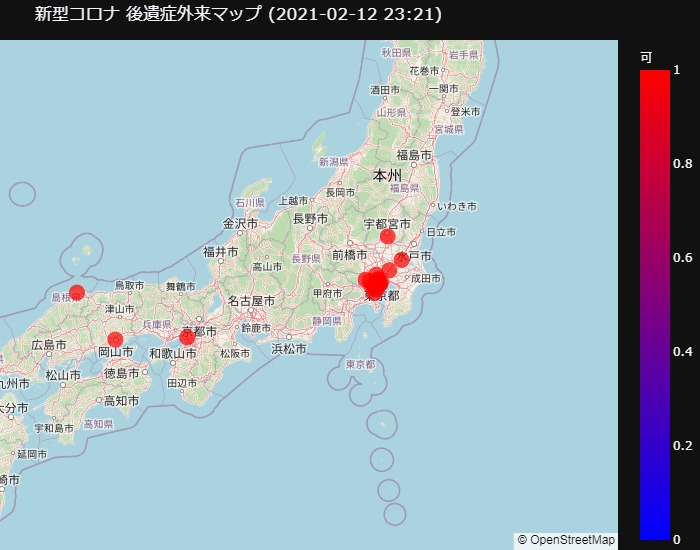
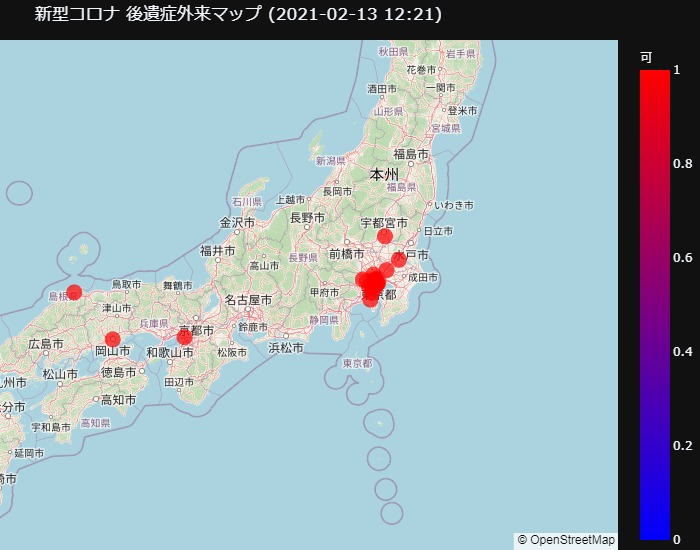
Updated with latest data.

Changed region(s): [[0.0, 0.0618, 0.72, 0.9582], [0.0, 0.3091, 0.06, 0.3709], [0.54, 0.0, 0.57, 0.0309]]

diff --git a/docs/_includes/longcovid-map.html b/docs/_includes/longcovid-map.html
@@ -1,1 +1,1 @@
-<div>                            <div id="c2a21f62-bb00-4ab9-bde6-ab78dbaf9285" class="plotly-graph-div" style="height:550px; width:100%;"></div>            <script type="text/javascript">                                    window.PLOTLYENV=window.PLOTLYENV || {};                                    if (document.getElementById("c2a21f62-bb00-4ab9-bde6-ab78dbaf9285")) {                    Plotly.newPlot(                        "c2a21f62-bb00-4ab9-bde6-ab78dbaf9285",                        [{"customdata": [["-", "-", "2\u9031\u9593\u4ee5\u4e0a\u7d4c\u904e"], ["?", "?", "?"], ["\u53ef", "-", "\u521d\u8a3a\u3067\u3082\u53ef"], ["?", "?", "?"], ["?", "?", "?"], ["-", "\u4e00\u65b9", "16\u6b73\u4ee5\u4e0a\u3001\u57fa\u672c\u306f\u6f22\u65b9"], ["-", "-", "2\u301c3\u30ab\u6708\u7d4c\u904e\u3001\u8af8\u75c7\u72b6\u6709"], ["\u53ef", "\u5fc5\u8981", "\u521d\u8a3a\u3067\u3082\u53ef"], ["?", "?", "\u57fa\u672c\u306f\u6f22\u65b9\u3001\u8981\u554f\u5408\u305b"], ["?", "?", "\u57fa\u672c\u306f\u6f22\u65b9\u3001\u8981\u554f\u5408\u305b"], ["?", "?", "\u57fa\u672c\u306f\u6f22\u65b9\u3001\u8981\u554f\u5408\u305b"], ["\u53ef", "-", "\u57fa\u672c\u306f\u6f22\u65b9\u3001\u81ea\u7531\u8a3a\u7642"], ["\u53ef", "-", "-"], ["-", "-", "\u55c5\u899a\u5473\u899a\u969c\u5bb3\u5916\u6765"], ["-", "\u5fc5\u8981", "2\u30ab\u6708\u4ee5\u4e0a\u7d4c\u904e"], ["-", "-", "\u6765\u9662\u304c\u57fa\u672c"], ["\u53ef", "-", "-"], ["-", "-", "\u9694\u96e2\u671f\u9593\u7d42\u4e86"], ["-", "\u5fc5\u8981", "3\u30ab\u6708\u4ee5\u4e0a\u7d4c\u904e"], ["-", "\u5fc5\u8981", "1\u30ab\u6708\u4ee5\u4e0a\u7d4c\u904e"], ["\u53ef", "-", "\u5bfe\u9762\u8a3a\u7642\u306e\u53ef\u80fd\u6027\u6709"], ["-", "-", "-"], ["-", "-", "1\u30ab\u6708\u4ee5\u4e0a\u7d4c\u904e"]], "hovertemplate": "<b>%{hovertext}</b><br><br>\u53ef=%{marker.color}<br>\u7def\u5ea6=%{lat}<br>\u7d4c\u5ea6=%{lon}<br>\u30aa\u30f3\u30e9\u30a4\u30f3=%{customdata[0]}<br>\u7d39\u4ecb\u72b6=%{customdata[1]}<br>\u6761\u4ef6=%{customdata[2]}<extra></extra>", "hovertext": ["\u30a4\u30f3\u30bf\u30fc\u30d1\u30fc\u30af\u5009\u6301\u547c\u5438\u5668\u5185\u79d1", "\u3064\u3061\u3046\u3089\u6771\u53e3\u30af\u30ea\u30cb\u30c3\u30af", "\u30d2\u30e9\u30cf\u30bf\u30af\u30ea\u30cb\u30c3\u30af", "\u9663\u5185\u8033\u9f3b\u54bd\u5589\u79d1\u30af\u30ea\u30cb\u30c3\u30af", "\u65b0\u4e2d\u91ce\u8033\u9f3b\u54bd\u5589\u79d1\u30af\u30ea\u30cb\u30c3\u30af", "\u5bfa\u7530\u30af\u30ea\u30cb\u30c3\u30af", "\u3082\u3061\u3065\u304d\u8033\u9f3b\u54bd\u5589\u79d1", "\u5317\u91cc\u5927\u5b66\u6771\u6d0b\u533b\u5b66\u7dcf\u5408\u7814\u7a76\u6240", "\u5c0f\u91d1\u4e95\u3064\u308b\u304b\u3081\u30af\u30ea\u30cb\u30c3\u30af", "\u307f\u306e\u3084\u307e\u30af\u30ea\u30cb\u30c3\u30af", "\u307f\u306e\u3084\u307e\u30af\u30ea\u30cb\u30c3\u30af\u7acb\u5ddd", "\u6771\u6587\u4e2d\u91ab\u30af\u30ea\u30cb\u30c3\u30af\u30fb\u65b0\u6a4b", "\u516c\u5e73\u75c5\u9662", "\u30af\u30ea\u30cb\u30c3\u30af\u67cf\u306e\u8449", "\u8056\u30de\u30ea\u30a2\u30f3\u30ca\u533b\u79d1\u5927\u5b66\u75c5\u9662", "\u6a2a\u6d5c\u304b\u3093\u3060\u3044\u3058\u30d5\u30a1\u30df\u30ea\u30fc\u30af\u30ea\u30cb\u30c3\u30af", "\u68b6\u304c\u8c37\u99c5\u524d\u30af\u30ea\u30cb\u30c3\u30af", "\u65b0\u5ddd\u5d0e\u3080\u3089\u305b\u5185\u79d1\u5faa\u74b0\u5668\u5185\u79d1", "\u30ca\u30ab\u30c8\u30df\u30d5\u30a1\u30c6\u30a3\u30fc\u30b0\u30b1\u30a2\u30af\u30ea\u30cb\u30c3\u30af", "\u5ca1\u5c71\u5927\u5b66\u75c5\u9662", "\u798f\u7530\u5185\u79d1\u30af\u30ea\u30cb\u30c3\u30af", "\u5929\u795e\u3051\u3084\u304d\u30af\u30ea\u30cb\u30c3\u30af", "\u307f\u3089\u3044\u30af\u30ea\u30cb\u30c3\u30af"], "lat": [36.49421483, 36.07817712, 35.66099144, 35.67554272, 35.69746127, 35.72952117, 35.73184532, 35.64615518, 35.70092207, 35.65562198, 35.72698343, 35.66930295, 35.81312769, 35.89270812, 35.60075469, 35.48523182, 35.5937929, 35.55188904, 34.690363399999995, 34.65090647, 35.49501807, 33.58607487, 33.59038441], "legendgroup": "", "lon": [139.9027937, 140.207013, 139.70208080000003, 139.6681197, 139.6692997, 139.6931743, 139.7026409, 139.72627219999998, 139.5058372, 139.73607180000002, 139.4179435, 139.7537904, 139.6527044, 139.9377533, 139.5488861, 139.61037869999998, 139.6063036, 139.6629341, 135.49824080000002, 133.9206308, 133.0761817, 130.3950466, 130.423525], "marker": {"color": [1, 1, 1, 1, 1, 1, 1, 1, 1, 1, 1, 1, 1, 1, 1, 1, 1, 1, 1, 1, 1, 0, 1], "coloraxis": "coloraxis", "size": [1, 1, 1, 1, 1, 1, 1, 1, 1, 1, 1, 1, 1, 1, 1, 1, 1, 1, 1, 1, 1, 0, 1], "sizemode": "area", "sizeref": 0.006944444444444444}, "mode": "markers", "name": "", "showlegend": false, "subplot": "mapbox", "type": "scattermapbox"}],                        {"coloraxis": {"colorbar": {"title": {"text": "\u53ef"}}, "colorscale": [[0.0, "rgb(0,0,255)"], [1.0, "rgb(255,0,0)"]]}, "height": 550, "legend": {"itemsizing": "constant", "tracegroupgap": 0}, "mapbox": {"center": {"lat": 35.45291265043478, "lon": 138.1746792304348}, "domain": {"x": [0.0, 1.0], "y": [0.0, 1.0]}, "style": "open-street-map", "zoom": 5}, "margin": {"b": 0, "l": 0, "r": 0, "t": 40}, "template": {"data": {"bar": [{"error_x": {"color": "#f2f5fa"}, "error_y": {"color": "#f2f5fa"}, "marker": {"line": {"color": "rgb(17,17,17)", "width": 0.5}}, "type": "bar"}], "barpolar": [{"marker": {"line": {"color": "rgb(17,17,17)", "width": 0.5}}, "type": "barpolar"}], "carpet": [{"aaxis": {"endlinecolor": "#A2B1C6", "gridcolor": "#506784", "linecolor": "#506784", "minorgridcolor": "#506784", "startlinecolor": "#A2B1C6"}, "baxis": {"endlinecolor": "#A2B1C6", "gridcolor": "#506784", "linecolor": "#506784", "minorgridcolor": "#506784", "startlinecolor": "#A2B1C6"}, "type": "carpet"}], "choropleth": [{"colorbar": {"outlinewidth": 0, "ticks": ""}, "type": "choropleth"}], "contour": [{"colorbar": {"outlinewidth": 0, "ticks": ""}, "colorscale": [[0.0, "#0d0887"], [0.1111111111111111, "#46039f"], [0.2222222222222222, "#7201a8"], [0.3333333333333333, "#9c179e"], [0.4444444444444444, "#bd3786"], [0.5555555555555556, "#d8576b"], [0.6666666666666666, "#ed7953"], [0.7777777777777778, "#fb9f3a"], [0.8888888888888888, "#fdca26"], [1.0, "#f0f921"]], "type": "contour"}], "contourcarpet": [{"colorbar": {"outlinewidth": 0, "ticks": ""}, "type": "contourcarpet"}], "heatmap": [{"colorbar": {"outlinewidth": 0, "ticks": ""}, "colorscale": [[0.0, "#0d0887"], [0.1111111111111111, "#46039f"], [0.2222222222222222, "#7201a8"], [0.3333333333333333, "#9c179e"], [0.4444444444444444, "#bd3786"], [0.5555555555555556, "#d8576b"], [0.6666666666666666, "#ed7953"], [0.7777777777777778, "#fb9f3a"], [0.8888888888888888, "#fdca26"], [1.0, "#f0f921"]], "type": "heatmap"}], "heatmapgl": [{"colorbar": {"outlinewidth": 0, "ticks": ""}, "colorscale": [[0.0, "#0d0887"], [0.1111111111111111, "#46039f"], [0.2222222222222222, "#7201a8"], [0.3333333333333333, "#9c179e"], [0.4444444444444444, "#bd3786"], [0.5555555555555556, "#d8576b"], [0.6666666666666666, "#ed7953"], [0.7777777777777778, "#fb9f3a"], [0.8888888888888888, "#fdca26"], [1.0, "#f0f921"]], "type": "heatmapgl"}], "histogram": [{"marker": {"colorbar": {"outlinewidth": 0, "ticks": ""}}, "type": "histogram"}], "histogram2d": [{"colorbar": {"outlinewidth": 0, "ticks": ""}, "colorscale": [[0.0, "#0d0887"], [0.1111111111111111, "#46039f"], [0.2222222222222222, "#7201a8"], [0.3333333333333333, "#9c179e"], [0.4444444444444444, "#bd3786"], [0.5555555555555556, "#d8576b"], [0.6666666666666666, "#ed7953"], [0.7777777777777778, "#fb9f3a"], [0.8888888888888888, "#fdca26"], [1.0, "#f0f921"]], "type": "histogram2d"}], "histogram2dcontour": [{"colorbar": {"outlinewidth": 0, "ticks": ""}, "colorscale": [[0.0, "#0d0887"], [0.1111111111111111, "#46039f"], [0.2222222222222222, "#7201a8"], [0.3333333333333333, "#9c179e"], [0.4444444444444444, "#bd3786"], [0.5555555555555556, "#d8576b"], [0.6666666666666666, "#ed7953"], [0.7777777777777778, "#fb9f3a"], [0.8888888888888888, "#fdca26"], [1.0, "#f0f921"]], "type": "histogram2dcontour"}], "mesh3d": [{"colorbar": {"outlinewidth": 0, "ticks": ""}, "type": "mesh3d"}], "parcoords": [{"line": {"colorbar": {"outlinewidth": 0, "ticks": ""}}, "type": "parcoords"}], "pie": [{"automargin": true, "type": "pie"}], "scatter": [{"marker": {"line": {"color": "#283442"}}, "type": "scatter"}], "scatter3d": [{"line": {"colorbar": {"outlinewidth": 0, "ticks": ""}}, "marker": {"colorbar": {"outlinewidth": 0, "ticks": ""}}, "type": "scatter3d"}], "scattercarpet": [{"marker": {"colorbar": {"outlinewidth": 0, "ticks": ""}}, "type": "scattercarpet"}], "scattergeo": [{"marker": {"colorbar": {"outlinewidth": 0, "ticks": ""}}, "type": "scattergeo"}], "scattergl": [{"marker": {"line": {"color": "#283442"}}, "type": "scattergl"}], "scattermapbox": [{"marker": {"colorbar": {"outlinewidth": 0, "ticks": ""}}, "type": "scattermapbox"}], "scatterpolar": [{"marker": {"colorbar": {"outlinewidth": 0, "ticks": ""}}, "type": "scatterpolar"}], "scatterpolargl": [{"marker": {"colorbar": {"outlinewidth": 0, "ticks": ""}}, "type": "scatterpolargl"}], "scatterternary": [{"marker": {"colorbar": {"outlinewidth": 0, "ticks": ""}}, "type": "scatterternary"}], "surface": [{"colorbar": {"outlinewidth": 0, "ticks": ""}, "colorscale": [[0.0, "#0d0887"], [0.1111111111111111, "#46039f"], [0.2222222222222222, "#7201a8"], [0.3333333333333333, "#9c179e"], [0.4444444444444444, "#bd3786"], [0.5555555555555556, "#d8576b"], [0.6666666666666666, "#ed7953"], [0.7777777777777778, "#fb9f3a"], [0.8888888888888888, "#fdca26"], [1.0, "#f0f921"]], "type": "surface"}], "table": [{"cells": {"fill": {"color": "#506784"}, "line": {"color": "rgb(17,17,17)"}}, "header": {"fill": {"color": "#2a3f5f"}, "line": {"color": "rgb(17,17,17)"}}, "type": "table"}]}, "layout": {"annotationdefaults": {"arrowcolor": "#f2f5fa", "arrowhead": 0, "arrowwidth": 1}, "autotypenumbers": "strict", "coloraxis": {"colorbar": {"outlinewidth": 0, "ticks": ""}}, "colorscale": {"diverging": [[0, "#8e0152"], [0.1, "#c51b7d"], [0.2, "#de77ae"], [0.3, "#f1b6da"], [0.4, "#fde0ef"], [0.5, "#f7f7f7"], [0.6, "#e6f5d0"], [0.7, "#b8e186"], [0.8, "#7fbc41"], [0.9, "#4d9221"], [1, "#276419"]], "sequential": [[0.0, "#0d0887"], [0.1111111111111111, "#46039f"], [0.2222222222222222, "#7201a8"], [0.3333333333333333, "#9c179e"], [0.4444444444444444, "#bd3786"], [0.5555555555555556, "#d8576b"], [0.6666666666666666, "#ed7953"], [0.7777777777777778, "#fb9f3a"], [0.8888888888888888, "#fdca26"], [1.0, "#f0f921"]], "sequentialminus": [[0.0, "#0d0887"], [0.1111111111111111, "#46039f"], [0.2222222222222222, "#7201a8"], [0.3333333333333333, "#9c179e"], [0.4444444444444444, "#bd3786"], [0.5555555555555556, "#d8576b"], [0.6666666666666666, "#ed7953"], [0.7777777777777778, "#fb9f3a"], [0.8888888888888888, "#fdca26"], [1.0, "#f0f921"]]}, "colorway": ["#636efa", "#EF553B", "#00cc96", "#ab63fa", "#FFA15A", "#19d3f3", "#FF6692", "#B6E880", "#FF97FF", "#FECB52"], "font": {"color": "#f2f5fa"}, "geo": {"bgcolor": "rgb(17,17,17)", "lakecolor": "rgb(17,17,17)", "landcolor": "rgb(17,17,17)", "showlakes": true, "showland": true, "subunitcolor": "#506784"}, "hoverlabel": {"align": "left"}, "hovermode": "closest", "mapbox": {"style": "dark"}, "paper_bgcolor": "rgb(17,17,17)", "plot_bgcolor": "rgb(17,17,17)", "polar": {"angularaxis": {"gridcolor": "#506784", "linecolor": "#506784", "ticks": ""}, "bgcolor": "rgb(17,17,17)", "radialaxis": {"gridcolor": "#506784", "linecolor": "#506784", "ticks": ""}}, "scene": {"xaxis": {"backgroundcolor": "rgb(17,17,17)", "gridcolor": "#506784", "gridwidth": 2, "linecolor": "#506784", "showbackground": true, "ticks": "", "zerolinecolor": "#C8D4E3"}, "yaxis": {"backgroundcolor": "rgb(17,17,17)", "gridcolor": "#506784", "gridwidth": 2, "linecolor": "#506784", "showbackground": true, "ticks": "", "zerolinecolor": "#C8D4E3"}, "zaxis": {"backgroundcolor": "rgb(17,17,17)", "gridcolor": "#506784", "gridwidth": 2, "linecolor": "#506784", "showbackground": true, "ticks": "", "zerolinecolor": "#C8D4E3"}}, "shapedefaults": {"line": {"color": "#f2f5fa"}}, "sliderdefaults": {"bgcolor": "#C8D4E3", "bordercolor": "rgb(17,17,17)", "borderwidth": 1, "tickwidth": 0}, "ternary": {"aaxis": {"gridcolor": "#506784", "linecolor": "#506784", "ticks": ""}, "baxis": {"gridcolor": "#506784", "linecolor": "#506784", "ticks": ""}, "bgcolor": "rgb(17,17,17)", "caxis": {"gridcolor": "#506784", "linecolor": "#506784", "ticks": ""}}, "title": {"x": 0.05}, "updatemenudefaults": {"bgcolor": "#506784", "borderwidth": 0}, "xaxis": {"automargin": true, "gridcolor": "#283442", "linecolor": "#506784", "ticks": "", "title": {"standoff": 15}, "zerolinecolor": "#283442", "zerolinewidth": 2}, "yaxis": {"automargin": true, "gridcolor": "#283442", "linecolor": "#506784", "ticks": "", "title": {"standoff": 15}, "zerolinecolor": "#283442", "zerolinewidth": 2}}}, "title": {"text": "\u65b0\u578b\u30b3\u30ed\u30ca \u5f8c\u907a\u75c7\u5916\u6765\u30de\u30c3\u30d7 (2021-02-12 23:21)"}},                        {"responsive": true}                    )                };                            </script>        </div>
+<div>                            <div id="97e3af49-0fea-48ea-89a7-a880f2ed0320" class="plotly-graph-div" style="height:550px; width:100%;"></div>            <script type="text/javascript">                                    window.PLOTLYENV=window.PLOTLYENV || {};                                    if (document.getElementById("97e3af49-0fea-48ea-89a7-a880f2ed0320")) {                    Plotly.newPlot(                        "97e3af49-0fea-48ea-89a7-a880f2ed0320",                        [{"customdata": [["-", "-", "2\u9031\u9593\u4ee5\u4e0a\u7d4c\u904e"], ["?", "?", "?"], ["\u53ef", "-", "\u521d\u8a3a\u3067\u3082\u53ef"], ["?", "?", "?"], ["?", "?", "?"], ["-", "\u4e00\u65b9", "16\u6b73\u4ee5\u4e0a\u3001\u57fa\u672c\u306f\u6f22\u65b9"], ["-", "-", "2\u301c3\u30ab\u6708\u7d4c\u904e\u3001\u8af8\u75c7\u72b6\u6709"], ["\u53ef", "\u5fc5\u8981", "\u521d\u8a3a\u3067\u3082\u53ef"], ["?", "?", "\u57fa\u672c\u306f\u6f22\u65b9\u3001\u8981\u554f\u5408\u305b"], ["?", "?", "\u57fa\u672c\u306f\u6f22\u65b9\u3001\u8981\u554f\u5408\u305b"], ["?", "?", "\u57fa\u672c\u306f\u6f22\u65b9\u3001\u8981\u554f\u5408\u305b"], ["\u53ef", "-", "\u57fa\u672c\u306f\u6f22\u65b9\u3001\u81ea\u7531\u8a3a\u7642"], ["\u53ef", "-", "-"], ["-", "-", "\u55c5\u899a\u5473\u899a\u969c\u5bb3\u5916\u6765"], ["-", "\u5fc5\u8981", "2\u30ab\u6708\u4ee5\u4e0a\u7d4c\u904e"], ["-", "-", "\u6765\u9662\u304c\u57fa\u672c"], ["\u53ef", "-", "-"], ["-", "-", "\u9694\u96e2\u671f\u9593\u7d42\u4e86"], ["?", "?", "\u7642\u990a\u7d42\u4e86\u5f8c"], ["-", "\u5fc5\u8981", "3\u30ab\u6708\u4ee5\u4e0a\u7d4c\u904e"], ["-", "\u5fc5\u8981", "1\u30ab\u6708\u4ee5\u4e0a\u7d4c\u904e"], ["\u53ef", "-", "\u5bfe\u9762\u8a3a\u7642\u306e\u53ef\u80fd\u6027\u6709"], ["-", "-", "-"], ["-", "-", "1\u30ab\u6708\u4ee5\u4e0a\u7d4c\u904e"]], "hovertemplate": "<b>%{hovertext}</b><br><br>\u53ef=%{marker.color}<br>\u7def\u5ea6=%{lat}<br>\u7d4c\u5ea6=%{lon}<br>\u30aa\u30f3\u30e9\u30a4\u30f3=%{customdata[0]}<br>\u7d39\u4ecb\u72b6=%{customdata[1]}<br>\u6761\u4ef6=%{customdata[2]}<extra></extra>", "hovertext": ["\u30a4\u30f3\u30bf\u30fc\u30d1\u30fc\u30af\u5009\u6301\u547c\u5438\u5668\u5185\u79d1", "\u3064\u3061\u3046\u3089\u6771\u53e3\u30af\u30ea\u30cb\u30c3\u30af", "\u30d2\u30e9\u30cf\u30bf\u30af\u30ea\u30cb\u30c3\u30af", "\u9663\u5185\u8033\u9f3b\u54bd\u5589\u79d1\u30af\u30ea\u30cb\u30c3\u30af", "\u65b0\u4e2d\u91ce\u8033\u9f3b\u54bd\u5589\u79d1\u30af\u30ea\u30cb\u30c3\u30af", "\u5bfa\u7530\u30af\u30ea\u30cb\u30c3\u30af", "\u3082\u3061\u3065\u304d\u8033\u9f3b\u54bd\u5589\u79d1", "\u5317\u91cc\u5927\u5b66\u6771\u6d0b\u533b\u5b66\u7dcf\u5408\u7814\u7a76\u6240", "\u5c0f\u91d1\u4e95\u3064\u308b\u304b\u3081\u30af\u30ea\u30cb\u30c3\u30af", "\u307f\u306e\u3084\u307e\u30af\u30ea\u30cb\u30c3\u30af", "\u307f\u306e\u3084\u307e\u30af\u30ea\u30cb\u30c3\u30af\u7acb\u5ddd", "\u6771\u6587\u4e2d\u91ab\u30af\u30ea\u30cb\u30c3\u30af\u30fb\u65b0\u6a4b", "\u516c\u5e73\u75c5\u9662", "\u30af\u30ea\u30cb\u30c3\u30af\u67cf\u306e\u8449", "\u8056\u30de\u30ea\u30a2\u30f3\u30ca\u533b\u79d1\u5927\u5b66\u75c5\u9662", "\u6a2a\u6d5c\u304b\u3093\u3060\u3044\u3058\u30d5\u30a1\u30df\u30ea\u30fc\u30af\u30ea\u30cb\u30c3\u30af", "\u68b6\u304c\u8c37\u99c5\u524d\u30af\u30ea\u30cb\u30c3\u30af", "\u65b0\u5ddd\u5d0e\u3080\u3089\u305b\u5185\u79d1\u5faa\u74b0\u5668\u5185\u79d1", "\u6a2a\u6d5c\u307f\u306a\u3068\u547c\u5438\u5668\u5185\u79d1", "\u30ca\u30ab\u30c8\u30df\u30d5\u30a1\u30c6\u30a3\u30fc\u30b0\u30b1\u30a2\u30af\u30ea\u30cb\u30c3\u30af", "\u5ca1\u5c71\u5927\u5b66\u75c5\u9662", "\u798f\u7530\u5185\u79d1\u30af\u30ea\u30cb\u30c3\u30af", "\u5929\u795e\u3051\u3084\u304d\u30af\u30ea\u30cb\u30c3\u30af", "\u307f\u3089\u3044\u30af\u30ea\u30cb\u30c3\u30af"], "lat": [36.49421483, 36.07817712, 35.66099144, 35.67554272, 35.69746127, 35.72952117, 35.73184532, 35.64615518, 35.70092207, 35.65562198, 35.72698343, 35.66930295, 35.81312769, 35.89270812, 35.60075469, 35.48523182, 35.5937929, 35.55188904, 35.36818996, 34.690363399999995, 34.65090647, 35.49501807, 33.58607487, 33.59038441], "legendgroup": "", "lon": [139.9027937, 140.207013, 139.70208080000003, 139.6681197, 139.6692997, 139.6931743, 139.7026409, 139.72627219999998, 139.5058372, 139.73607180000002, 139.4179435, 139.7537904, 139.6527044, 139.9377533, 139.5488861, 139.61037869999998, 139.6063036, 139.6629341, 139.58114630000003, 135.49824080000002, 133.9206308, 133.0761817, 130.3950466, 130.423525], "marker": {"color": [1, 1, 1, 1, 1, 1, 1, 1, 1, 1, 1, 1, 1, 1, 1, 1, 1, 1, 1, 1, 1, 1, 0, 1], "coloraxis": "coloraxis", "size": [1, 1, 1, 1, 1, 1, 1, 1, 1, 1, 1, 1, 1, 1, 1, 1, 1, 1, 1, 1, 1, 1, 0, 1], "sizemode": "area", "sizeref": 0.006944444444444444}, "mode": "markers", "name": "", "showlegend": false, "subplot": "mapbox", "type": "scattermapbox"}],                        {"coloraxis": {"colorbar": {"title": {"text": "\u53ef"}}, "colorscale": [[0.0, "rgb(0,0,255)"], [1.0, "rgb(255,0,0)"]]}, "height": 550, "legend": {"itemsizing": "constant", "tracegroupgap": 0}, "mapbox": {"center": {"lat": 35.44938253833333, "lon": 138.233282025}, "domain": {"x": [0.0, 1.0], "y": [0.0, 1.0]}, "style": "open-street-map", "zoom": 5}, "margin": {"b": 0, "l": 0, "r": 0, "t": 40}, "template": {"data": {"bar": [{"error_x": {"color": "#f2f5fa"}, "error_y": {"color": "#f2f5fa"}, "marker": {"line": {"color": "rgb(17,17,17)", "width": 0.5}}, "type": "bar"}], "barpolar": [{"marker": {"line": {"color": "rgb(17,17,17)", "width": 0.5}}, "type": "barpolar"}], "carpet": [{"aaxis": {"endlinecolor": "#A2B1C6", "gridcolor": "#506784", "linecolor": "#506784", "minorgridcolor": "#506784", "startlinecolor": "#A2B1C6"}, "baxis": {"endlinecolor": "#A2B1C6", "gridcolor": "#506784", "linecolor": "#506784", "minorgridcolor": "#506784", "startlinecolor": "#A2B1C6"}, "type": "carpet"}], "choropleth": [{"colorbar": {"outlinewidth": 0, "ticks": ""}, "type": "choropleth"}], "contour": [{"colorbar": {"outlinewidth": 0, "ticks": ""}, "colorscale": [[0.0, "#0d0887"], [0.1111111111111111, "#46039f"], [0.2222222222222222, "#7201a8"], [0.3333333333333333, "#9c179e"], [0.4444444444444444, "#bd3786"], [0.5555555555555556, "#d8576b"], [0.6666666666666666, "#ed7953"], [0.7777777777777778, "#fb9f3a"], [0.8888888888888888, "#fdca26"], [1.0, "#f0f921"]], "type": "contour"}], "contourcarpet": [{"colorbar": {"outlinewidth": 0, "ticks": ""}, "type": "contourcarpet"}], "heatmap": [{"colorbar": {"outlinewidth": 0, "ticks": ""}, "colorscale": [[0.0, "#0d0887"], [0.1111111111111111, "#46039f"], [0.2222222222222222, "#7201a8"], [0.3333333333333333, "#9c179e"], [0.4444444444444444, "#bd3786"], [0.5555555555555556, "#d8576b"], [0.6666666666666666, "#ed7953"], [0.7777777777777778, "#fb9f3a"], [0.8888888888888888, "#fdca26"], [1.0, "#f0f921"]], "type": "heatmap"}], "heatmapgl": [{"colorbar": {"outlinewidth": 0, "ticks": ""}, "colorscale": [[0.0, "#0d0887"], [0.1111111111111111, "#46039f"], [0.2222222222222222, "#7201a8"], [0.3333333333333333, "#9c179e"], [0.4444444444444444, "#bd3786"], [0.5555555555555556, "#d8576b"], [0.6666666666666666, "#ed7953"], [0.7777777777777778, "#fb9f3a"], [0.8888888888888888, "#fdca26"], [1.0, "#f0f921"]], "type": "heatmapgl"}], "histogram": [{"marker": {"colorbar": {"outlinewidth": 0, "ticks": ""}}, "type": "histogram"}], "histogram2d": [{"colorbar": {"outlinewidth": 0, "ticks": ""}, "colorscale": [[0.0, "#0d0887"], [0.1111111111111111, "#46039f"], [0.2222222222222222, "#7201a8"], [0.3333333333333333, "#9c179e"], [0.4444444444444444, "#bd3786"], [0.5555555555555556, "#d8576b"], [0.6666666666666666, "#ed7953"], [0.7777777777777778, "#fb9f3a"], [0.8888888888888888, "#fdca26"], [1.0, "#f0f921"]], "type": "histogram2d"}], "histogram2dcontour": [{"colorbar": {"outlinewidth": 0, "ticks": ""}, "colorscale": [[0.0, "#0d0887"], [0.1111111111111111, "#46039f"], [0.2222222222222222, "#7201a8"], [0.3333333333333333, "#9c179e"], [0.4444444444444444, "#bd3786"], [0.5555555555555556, "#d8576b"], [0.6666666666666666, "#ed7953"], [0.7777777777777778, "#fb9f3a"], [0.8888888888888888, "#fdca26"], [1.0, "#f0f921"]], "type": "histogram2dcontour"}], "mesh3d": [{"colorbar": {"outlinewidth": 0, "ticks": ""}, "type": "mesh3d"}], "parcoords": [{"line": {"colorbar": {"outlinewidth": 0, "ticks": ""}}, "type": "parcoords"}], "pie": [{"automargin": true, "type": "pie"}], "scatter": [{"marker": {"line": {"color": "#283442"}}, "type": "scatter"}], "scatter3d": [{"line": {"colorbar": {"outlinewidth": 0, "ticks": ""}}, "marker": {"colorbar": {"outlinewidth": 0, "ticks": ""}}, "type": "scatter3d"}], "scattercarpet": [{"marker": {"colorbar": {"outlinewidth": 0, "ticks": ""}}, "type": "scattercarpet"}], "scattergeo": [{"marker": {"colorbar": {"outlinewidth": 0, "ticks": ""}}, "type": "scattergeo"}], "scattergl": [{"marker": {"line": {"color": "#283442"}}, "type": "scattergl"}], "scattermapbox": [{"marker": {"colorbar": {"outlinewidth": 0, "ticks": ""}}, "type": "scattermapbox"}], "scatterpolar": [{"marker": {"colorbar": {"outlinewidth": 0, "ticks": ""}}, "type": "scatterpolar"}], "scatterpolargl": [{"marker": {"colorbar": {"outlinewidth": 0, "ticks": ""}}, "type": "scatterpolargl"}], "scatterternary": [{"marker": {"colorbar": {"outlinewidth": 0, "ticks": ""}}, "type": "scatterternary"}], "surface": [{"colorbar": {"outlinewidth": 0, "ticks": ""}, "colorscale": [[0.0, "#0d0887"], [0.1111111111111111, "#46039f"], [0.2222222222222222, "#7201a8"], [0.3333333333333333, "#9c179e"], [0.4444444444444444, "#bd3786"], [0.5555555555555556, "#d8576b"], [0.6666666666666666, "#ed7953"], [0.7777777777777778, "#fb9f3a"], [0.8888888888888888, "#fdca26"], [1.0, "#f0f921"]], "type": "surface"}], "table": [{"cells": {"fill": {"color": "#506784"}, "line": {"color": "rgb(17,17,17)"}}, "header": {"fill": {"color": "#2a3f5f"}, "line": {"color": "rgb(17,17,17)"}}, "type": "table"}]}, "layout": {"annotationdefaults": {"arrowcolor": "#f2f5fa", "arrowhead": 0, "arrowwidth": 1}, "autotypenumbers": "strict", "coloraxis": {"colorbar": {"outlinewidth": 0, "ticks": ""}}, "colorscale": {"diverging": [[0, "#8e0152"], [0.1, "#c51b7d"], [0.2, "#de77ae"], [0.3, "#f1b6da"], [0.4, "#fde0ef"], [0.5, "#f7f7f7"], [0.6, "#e6f5d0"], [0.7, "#b8e186"], [0.8, "#7fbc41"], [0.9, "#4d9221"], [1, "#276419"]], "sequential": [[0.0, "#0d0887"], [0.1111111111111111, "#46039f"], [0.2222222222222222, "#7201a8"], [0.3333333333333333, "#9c179e"], [0.4444444444444444, "#bd3786"], [0.5555555555555556, "#d8576b"], [0.6666666666666666, "#ed7953"], [0.7777777777777778, "#fb9f3a"], [0.8888888888888888, "#fdca26"], [1.0, "#f0f921"]], "sequentialminus": [[0.0, "#0d0887"], [0.1111111111111111, "#46039f"], [0.2222222222222222, "#7201a8"], [0.3333333333333333, "#9c179e"], [0.4444444444444444, "#bd3786"], [0.5555555555555556, "#d8576b"], [0.6666666666666666, "#ed7953"], [0.7777777777777778, "#fb9f3a"], [0.8888888888888888, "#fdca26"], [1.0, "#f0f921"]]}, "colorway": ["#636efa", "#EF553B", "#00cc96", "#ab63fa", "#FFA15A", "#19d3f3", "#FF6692", "#B6E880", "#FF97FF", "#FECB52"], "font": {"color": "#f2f5fa"}, "geo": {"bgcolor": "rgb(17,17,17)", "lakecolor": "rgb(17,17,17)", "landcolor": "rgb(17,17,17)", "showlakes": true, "showland": true, "subunitcolor": "#506784"}, "hoverlabel": {"align": "left"}, "hovermode": "closest", "mapbox": {"style": "dark"}, "paper_bgcolor": "rgb(17,17,17)", "plot_bgcolor": "rgb(17,17,17)", "polar": {"angularaxis": {"gridcolor": "#506784", "linecolor": "#506784", "ticks": ""}, "bgcolor": "rgb(17,17,17)", "radialaxis": {"gridcolor": "#506784", "linecolor": "#506784", "ticks": ""}}, "scene": {"xaxis": {"backgroundcolor": "rgb(17,17,17)", "gridcolor": "#506784", "gridwidth": 2, "linecolor": "#506784", "showbackground": true, "ticks": "", "zerolinecolor": "#C8D4E3"}, "yaxis": {"backgroundcolor": "rgb(17,17,17)", "gridcolor": "#506784", "gridwidth": 2, "linecolor": "#506784", "showbackground": true, "ticks": "", "zerolinecolor": "#C8D4E3"}, "zaxis": {"backgroundcolor": "rgb(17,17,17)", "gridcolor": "#506784", "gridwidth": 2, "linecolor": "#506784", "showbackground": true, "ticks": "", "zerolinecolor": "#C8D4E3"}}, "shapedefaults": {"line": {"color": "#f2f5fa"}}, "sliderdefaults": {"bgcolor": "#C8D4E3", "bordercolor": "rgb(17,17,17)", "borderwidth": 1, "tickwidth": 0}, "ternary": {"aaxis": {"gridcolor": "#506784", "linecolor": "#506784", "ticks": ""}, "baxis": {"gridcolor": "#506784", "linecolor": "#506784", "ticks": ""}, "bgcolor": "rgb(17,17,17)", "caxis": {"gridcolor": "#506784", "linecolor": "#506784", "ticks": ""}}, "title": {"x": 0.05}, "updatemenudefaults": {"bgcolor": "#506784", "borderwidth": 0}, "xaxis": {"automargin": true, "gridcolor": "#283442", "linecolor": "#506784", "ticks": "", "title": {"standoff": 15}, "zerolinecolor": "#283442", "zerolinewidth": 2}, "yaxis": {"automargin": true, "gridcolor": "#283442", "linecolor": "#506784", "ticks": "", "title": {"standoff": 15}, "zerolinecolor": "#283442", "zerolinewidth": 2}}}, "title": {"text": "\u65b0\u578b\u30b3\u30ed\u30ca \u5f8c\u907a\u75c7\u5916\u6765\u30de\u30c3\u30d7 (2021-02-13 12:21)"}},                        {"responsive": true}                    )                };                            </script>        </div>

diff --git a/docs/_includes/longcovid-table.html b/docs/_includes/longcovid-table.html
@@ -40,9 +40,10 @@
 <tr bgcolor="#000000"><td class="MapsTblColNo">関東</td><td class="MapsTblColSt">神奈川県</td><td class="MapsTblColNm">横浜かんだいじファミリークリニック</td><td class="MapsTblColEn">1</td><td class="MapsTblColOL">-</td><td class="MapsTblColRS">-</td><td class="MapsTblColCd">来院が基本</td><td class="MapsTblColHP"><a href="https://yokohama-kandaiji-family-clinic.jp/LONG-COVID">HP</a></td></tr>
 <tr bgcolor="#606060"><td class="MapsTblColNo">関東</td><td class="MapsTblColSt">神奈川県</td><td class="MapsTblColNm">梶が谷駅前クリニック</td><td class="MapsTblColEn">1</td><td class="MapsTblColOL">可</td><td class="MapsTblColRS">-</td><td class="MapsTblColCd">-</td><td class="MapsTblColHP"><a href="https://kajigayaekimaenaika-clinic.com">HP</a></td></tr>
 <tr bgcolor="#000000"><td class="MapsTblColNo">関東</td><td class="MapsTblColSt">神奈川県</td><td class="MapsTblColNm">新川崎むらせ内科循環器内科</td><td class="MapsTblColEn">1</td><td class="MapsTblColOL">-</td><td class="MapsTblColRS">-</td><td class="MapsTblColCd">隔離期間終了</td><td class="MapsTblColHP"><a href="http://shinkawasaki-murase.com/blog/2021/02/01/">HP</a></td></tr>
-<tr bgcolor="#606060"><td class="MapsTblColNo">近畿</td><td class="MapsTblColSt">大阪府</td><td class="MapsTblColNm">ナカトミファティーグケアクリニック</td><td class="MapsTblColEn">1</td><td class="MapsTblColOL">-</td><td class="MapsTblColRS">必要</td><td class="MapsTblColCd">3カ月以上経過</td><td class="MapsTblColHP"><a href="http://tukare.jp/news/2020/11/20/post-40.html">HP</a></td></tr>
-<tr bgcolor="#000000"><td class="MapsTblColNo">中国</td><td class="MapsTblColSt">岡山県</td><td class="MapsTblColNm">岡山大学病院</td><td class="MapsTblColEn">1</td><td class="MapsTblColOL">-</td><td class="MapsTblColRS">必要</td><td class="MapsTblColCd">1カ月以上経過</td><td class="MapsTblColHP"><a href="http://medica.sanyonews.jp/article/18130">HP</a></td></tr>
-<tr bgcolor="#606060"><td class="MapsTblColNo">中国</td><td class="MapsTblColSt">島根県</td><td class="MapsTblColNm">福田内科クリニック</td><td class="MapsTblColEn">1</td><td class="MapsTblColOL">可</td><td class="MapsTblColRS">-</td><td class="MapsTblColCd">対面診療の可能性有</td><td class="MapsTblColHP"><a href="https://clinics.medley.life/clinics/5ae2fe7eccbc572e33a34edd">HP</a></td></tr>
-<tr bgcolor="#000000"><td class="MapsTblColNo">九州</td><td class="MapsTblColSt">福岡県</td><td class="MapsTblColNm">天神けやきクリニック</td><td class="MapsTblColEn">0</td><td class="MapsTblColOL">-</td><td class="MapsTblColRS">-</td><td class="MapsTblColCd">-</td><td class="MapsTblColHP"><a href="https://tenjinkeyaki.com/medical/medical39.html">HP</a></td></tr>
-<tr bgcolor="#606060"><td class="MapsTblColNo">九州</td><td class="MapsTblColSt">福岡県</td><td class="MapsTblColNm">みらいクリニック</td><td class="MapsTblColEn">1</td><td class="MapsTblColOL">-</td><td class="MapsTblColRS">-</td><td class="MapsTblColCd">1カ月以上経過</td><td class="MapsTblColHP"><a href="https://mirai-iryou.com/info/longcovid_20210207/">HP</a></td></tr>
+<tr bgcolor="#606060"><td class="MapsTblColNo">関東</td><td class="MapsTblColSt">神奈川県</td><td class="MapsTblColNm">横浜みなと呼吸器内科</td><td class="MapsTblColEn">1</td><td class="MapsTblColOL">?</td><td class="MapsTblColRS">?</td><td class="MapsTblColCd">療養終了後</td><td class="MapsTblColHP"><a href="https://yhmm.jp/news/0201kouisho/">HP</a></td></tr>
+<tr bgcolor="#000000"><td class="MapsTblColNo">近畿</td><td class="MapsTblColSt">大阪府</td><td class="MapsTblColNm">ナカトミファティーグケアクリニック</td><td class="MapsTblColEn">1</td><td class="MapsTblColOL">-</td><td class="MapsTblColRS">必要</td><td class="MapsTblColCd">3カ月以上経過</td><td class="MapsTblColHP"><a href="http://tukare.jp/news/2020/11/20/post-40.html">HP</a></td></tr>
+<tr bgcolor="#606060"><td class="MapsTblColNo">中国</td><td class="MapsTblColSt">岡山県</td><td class="MapsTblColNm">岡山大学病院</td><td class="MapsTblColEn">1</td><td class="MapsTblColOL">-</td><td class="MapsTblColRS">必要</td><td class="MapsTblColCd">1カ月以上経過</td><td class="MapsTblColHP"><a href="http://medica.sanyonews.jp/article/18130">HP</a></td></tr>
+<tr bgcolor="#000000"><td class="MapsTblColNo">中国</td><td class="MapsTblColSt">島根県</td><td class="MapsTblColNm">福田内科クリニック</td><td class="MapsTblColEn">1</td><td class="MapsTblColOL">可</td><td class="MapsTblColRS">-</td><td class="MapsTblColCd">対面診療の可能性有</td><td class="MapsTblColHP"><a href="https://clinics.medley.life/clinics/5ae2fe7eccbc572e33a34edd">HP</a></td></tr>
+<tr bgcolor="#606060"><td class="MapsTblColNo">九州</td><td class="MapsTblColSt">福岡県</td><td class="MapsTblColNm">天神けやきクリニック</td><td class="MapsTblColEn">0</td><td class="MapsTblColOL">-</td><td class="MapsTblColRS">-</td><td class="MapsTblColCd">-</td><td class="MapsTblColHP"><a href="https://tenjinkeyaki.com/medical/medical39.html">HP</a></td></tr>
+<tr bgcolor="#000000"><td class="MapsTblColNo">九州</td><td class="MapsTblColSt">福岡県</td><td class="MapsTblColNm">みらいクリニック</td><td class="MapsTblColEn">1</td><td class="MapsTblColOL">-</td><td class="MapsTblColRS">-</td><td class="MapsTblColCd">1カ月以上経過</td><td class="MapsTblColHP"><a href="https://mirai-iryou.com/info/longcovid_20210207/">HP</a></td></tr>
 </tbody></table>
